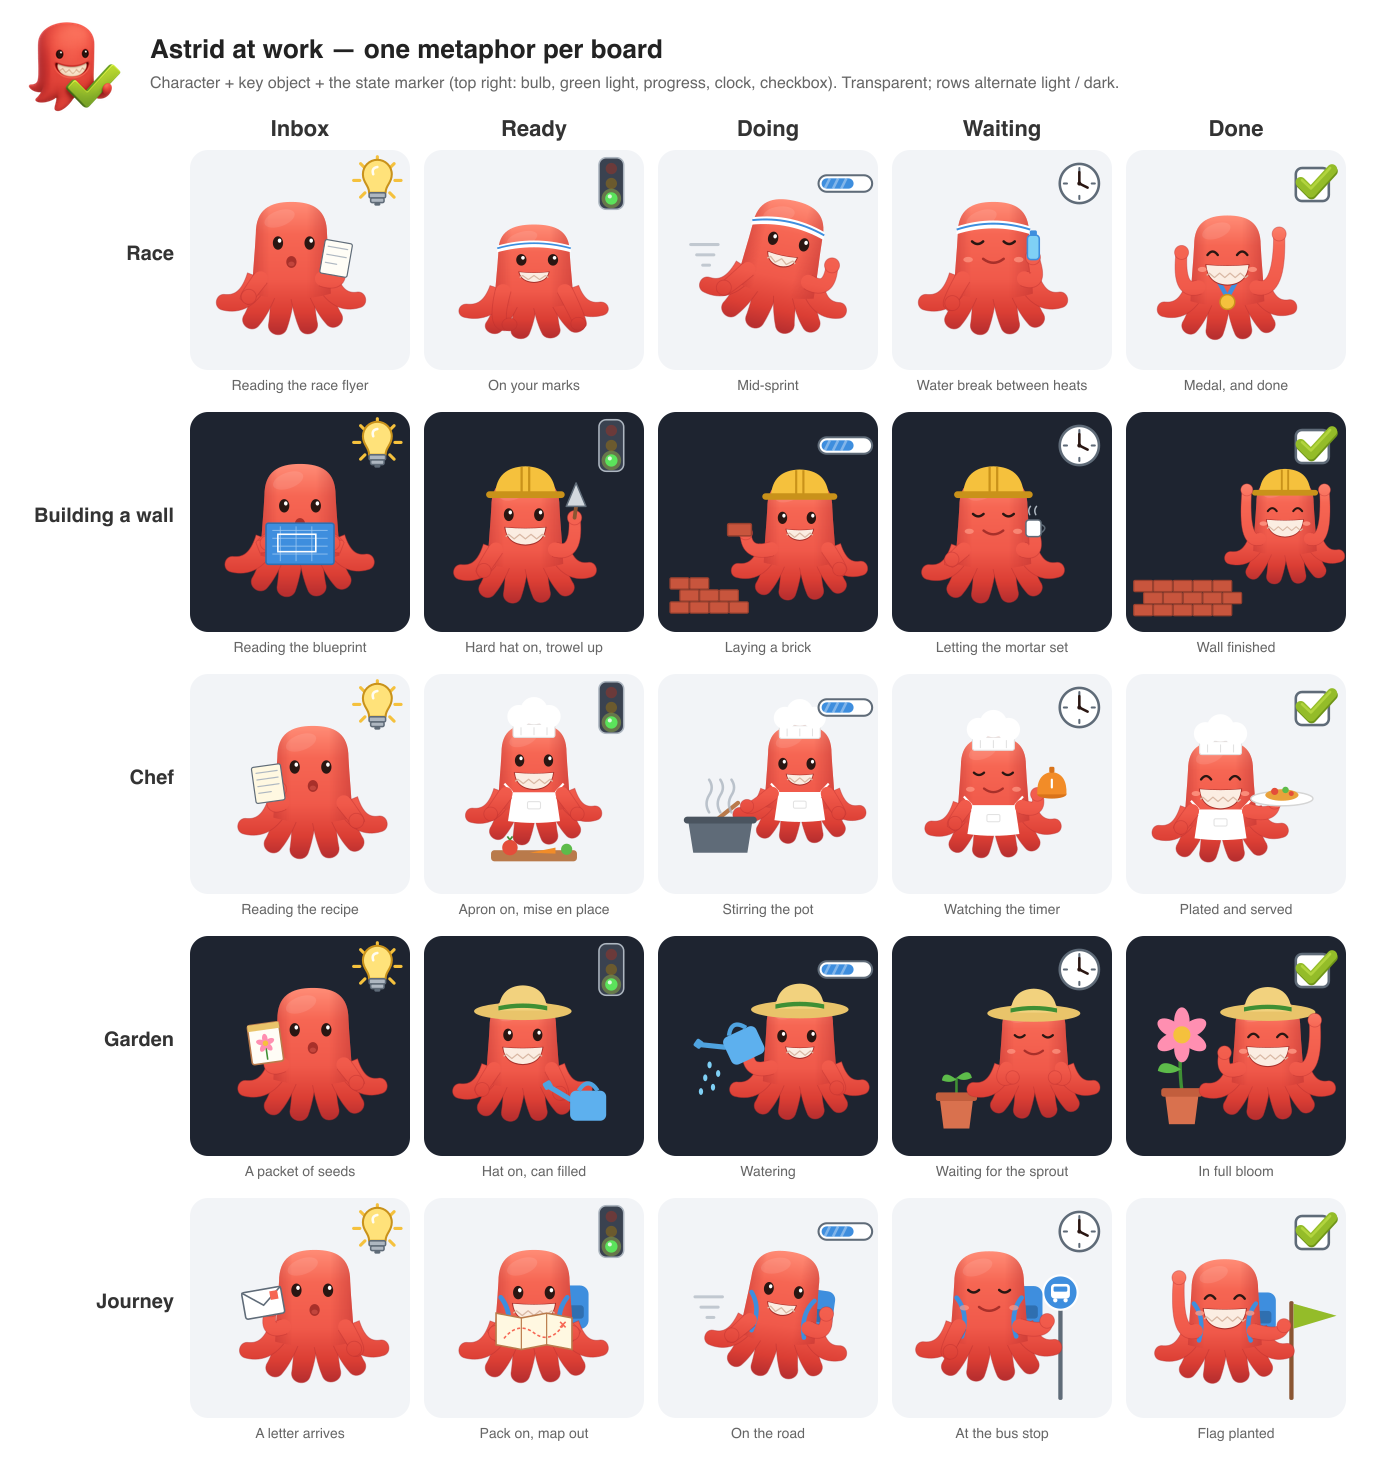
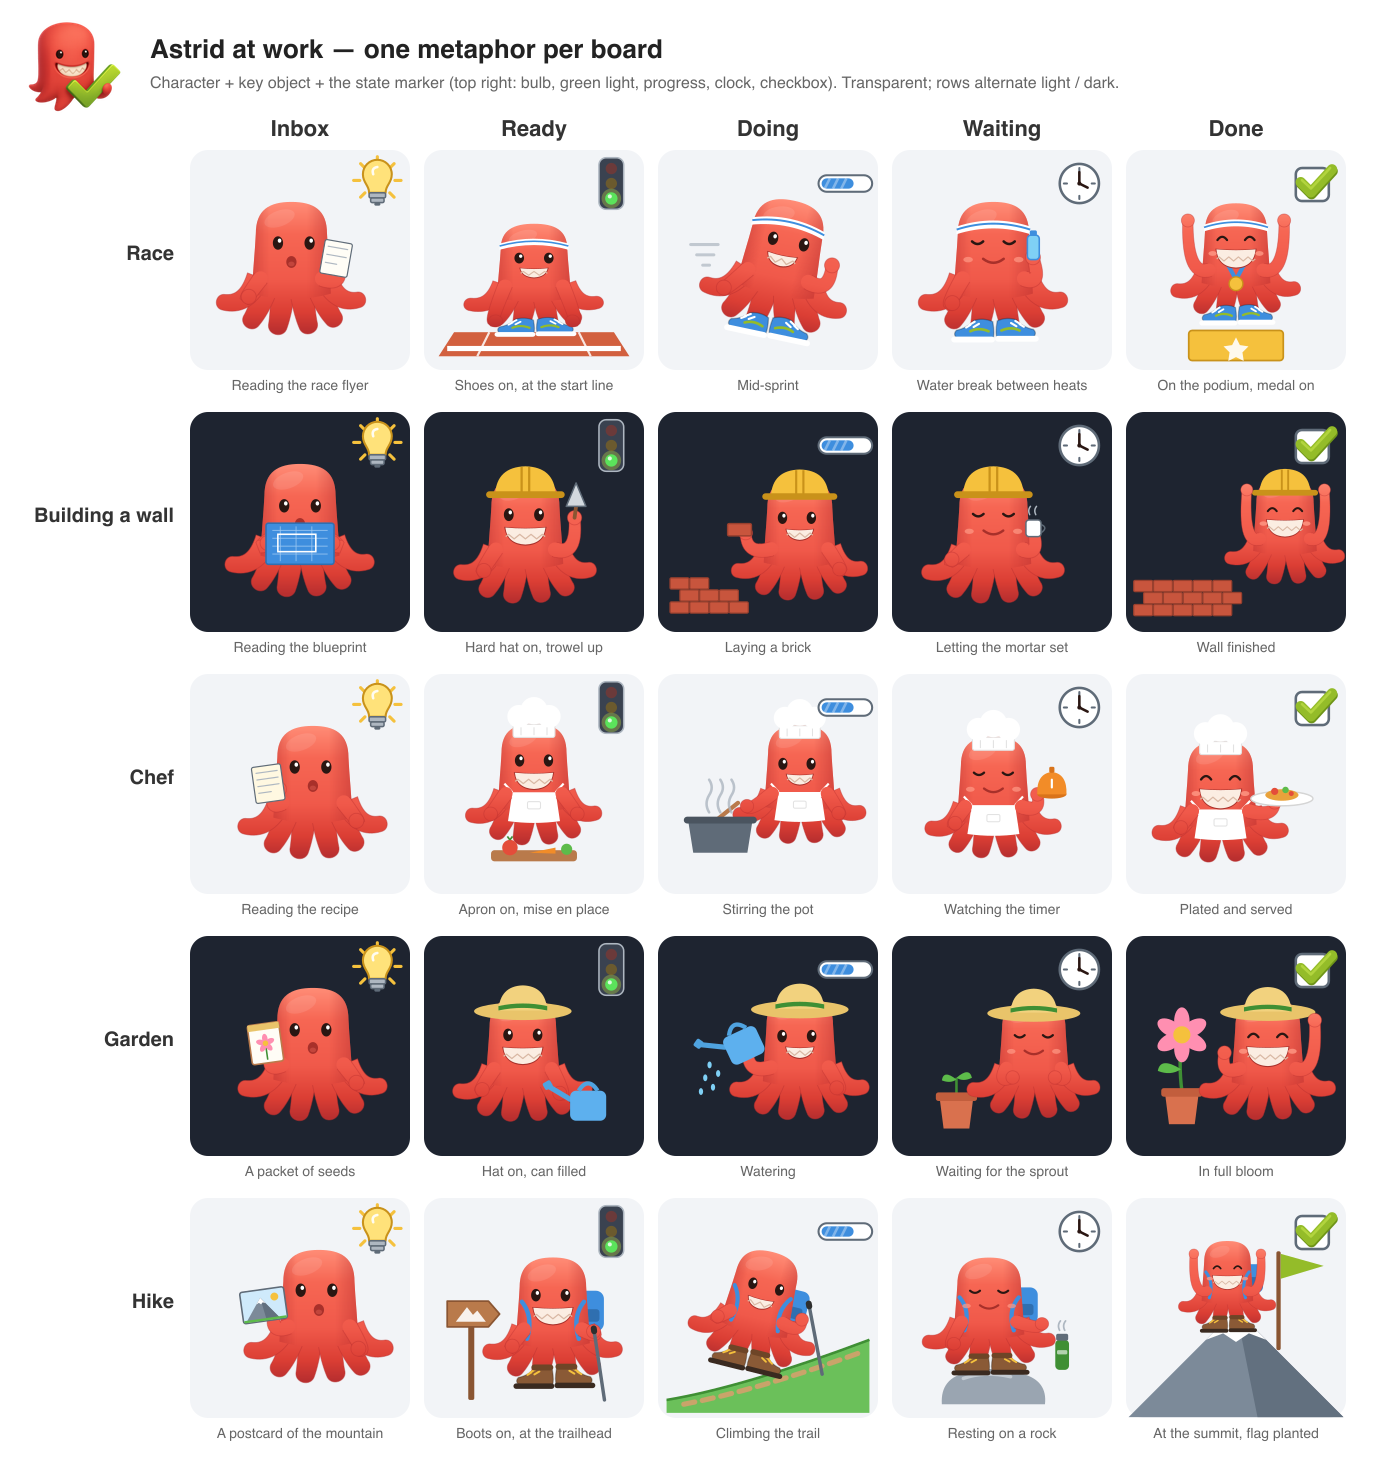
ADEV-127 Empathy states, fourth pass: race shoes and start line, Journey becomes a Hike
Race: running shoes on the front tentacles, a stretch of track with the
start line for Ready, a podium for Done. Journey -> Hike: a postcard of the
mountain, boots on at the trailhead, climbing the trail, resting on a rock,
the summit with the flag planted. Docs artwork only; nothing in the bundle.

diff --git a/docs/design/empathy-states/README.md b/docs/design/empathy-states/README.md
@@ -23,15 +23,20 @@ frame**, top right and identical whatever the metaphor, so the state reads first
 The scenes' own loose checks went, since the checkbox carries Done, and Journey's Waiting is now a
 bus stop so the clock is not shown twice.
 
+Fourth pass (Jon, 2026-11-19): the **Race** gets running shoes, a stretch of track with the start
+line for Ready, and a podium for Done; **Journey became a Hike**, which starts at a trailhead sign
+and ends on the summit with the flag planted. The hiker wears boots, so in both sets the
+costume says which metaphor it is before the props do.
+
 ![contact sheet](contact-sheet.png)
 
 | Metaphor | Inbox | Ready | Doing | Waiting | Done |
 |---|---|---|---|---|---|
-| Race | reading the flyer | on your marks | mid-sprint | water break | medal |
+| Race | reading the flyer | shoes on, at the start line | mid-sprint | water break | podium, medal |
 | Building a wall | blueprint | hard hat, trowel | laying a brick | mortar setting (coffee) | finished |
 | Chef | recipe | apron, mise en place | stirring | kitchen timer | plated |
 | Garden | seed packet | hat, can filled | watering | sprout coming | bloom |
-| Journey | letter arrives | pack + map | on the road | at the bus stop | flag planted |
+| Hike | postcard of the mountain | boots on, at the trailhead | climbing the trail | resting on a rock | summit, flag planted |
 
 - `svg/<metaphor>-<state>.svg`: 512×512, transparent, with no text, so any locale and either theme can use them.
 - `generate.mjs`: the source. One shared octopus (`octo()`: faces `curious`, `grin`,
